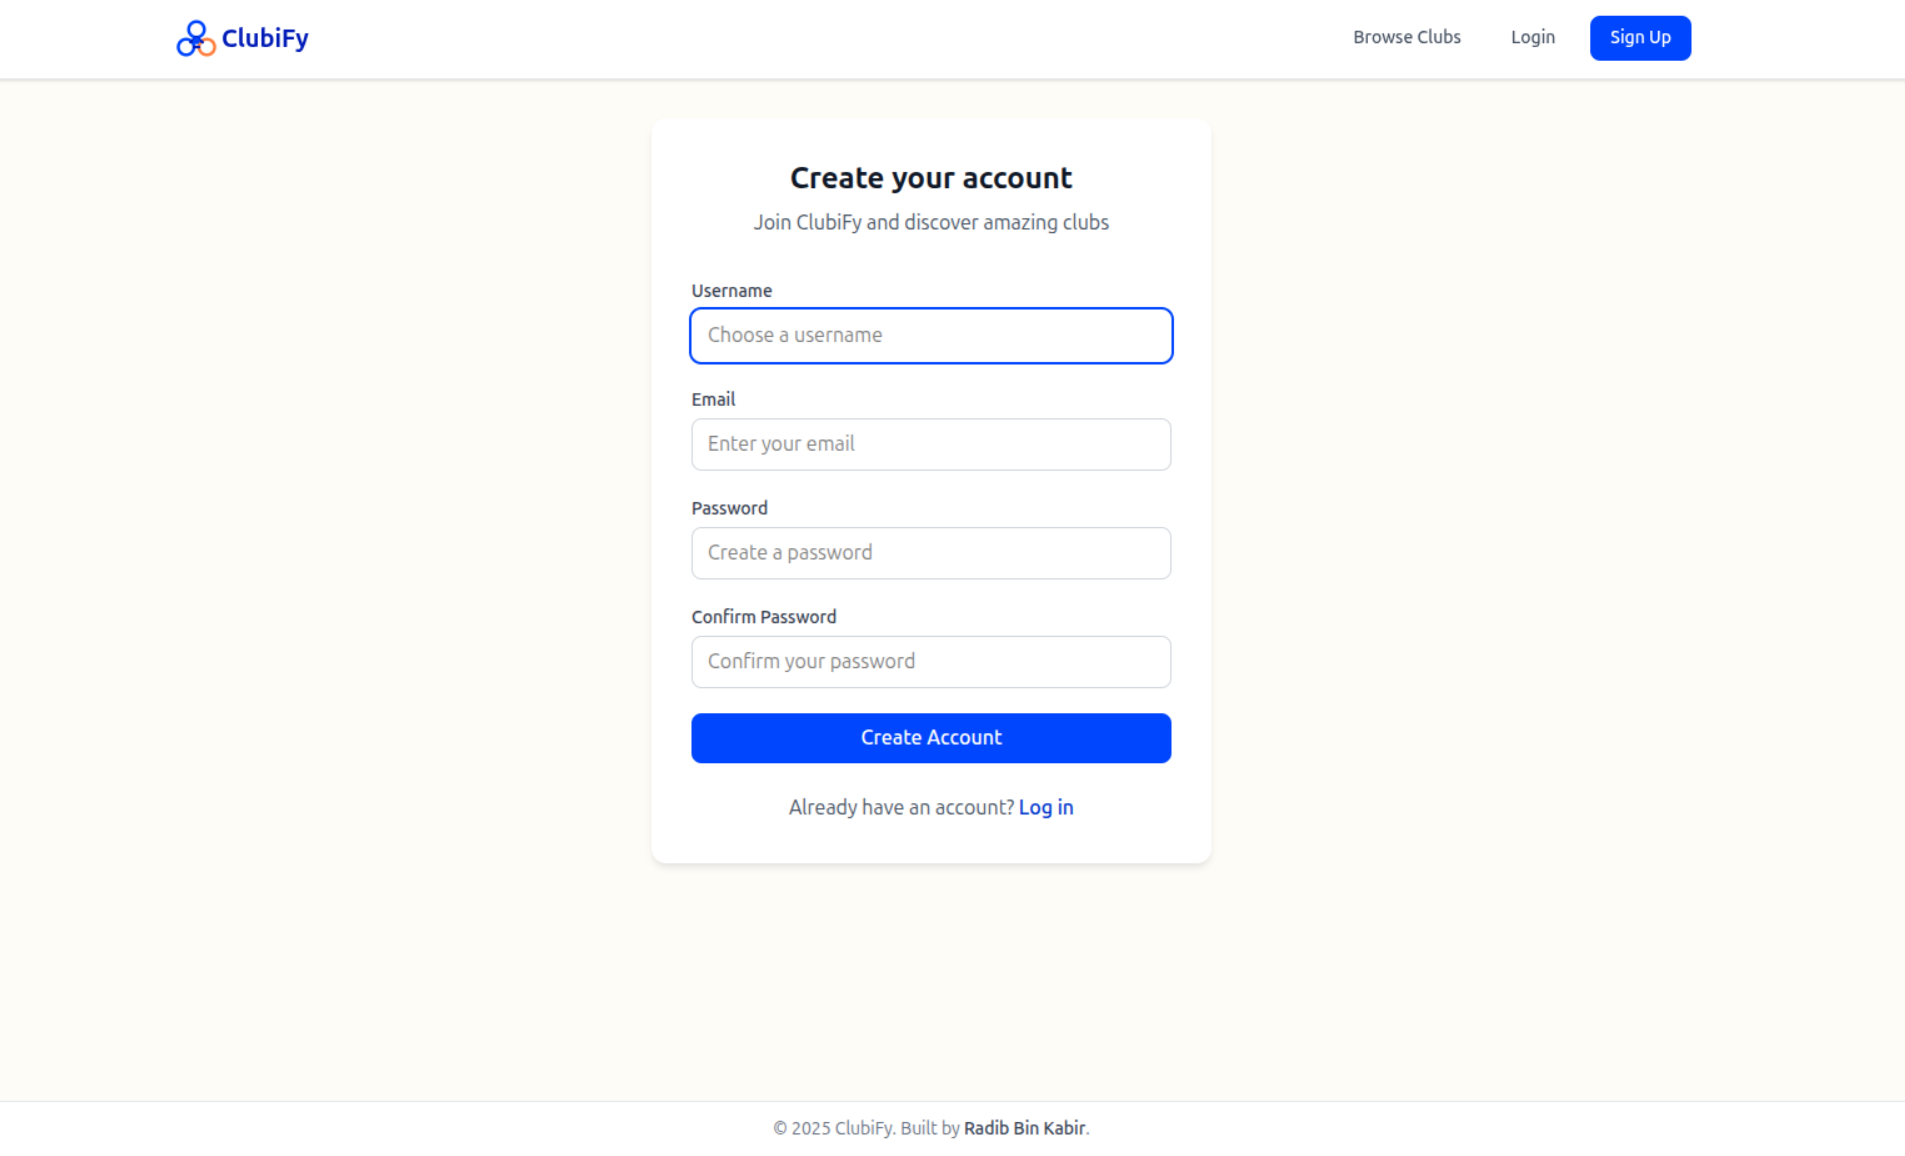
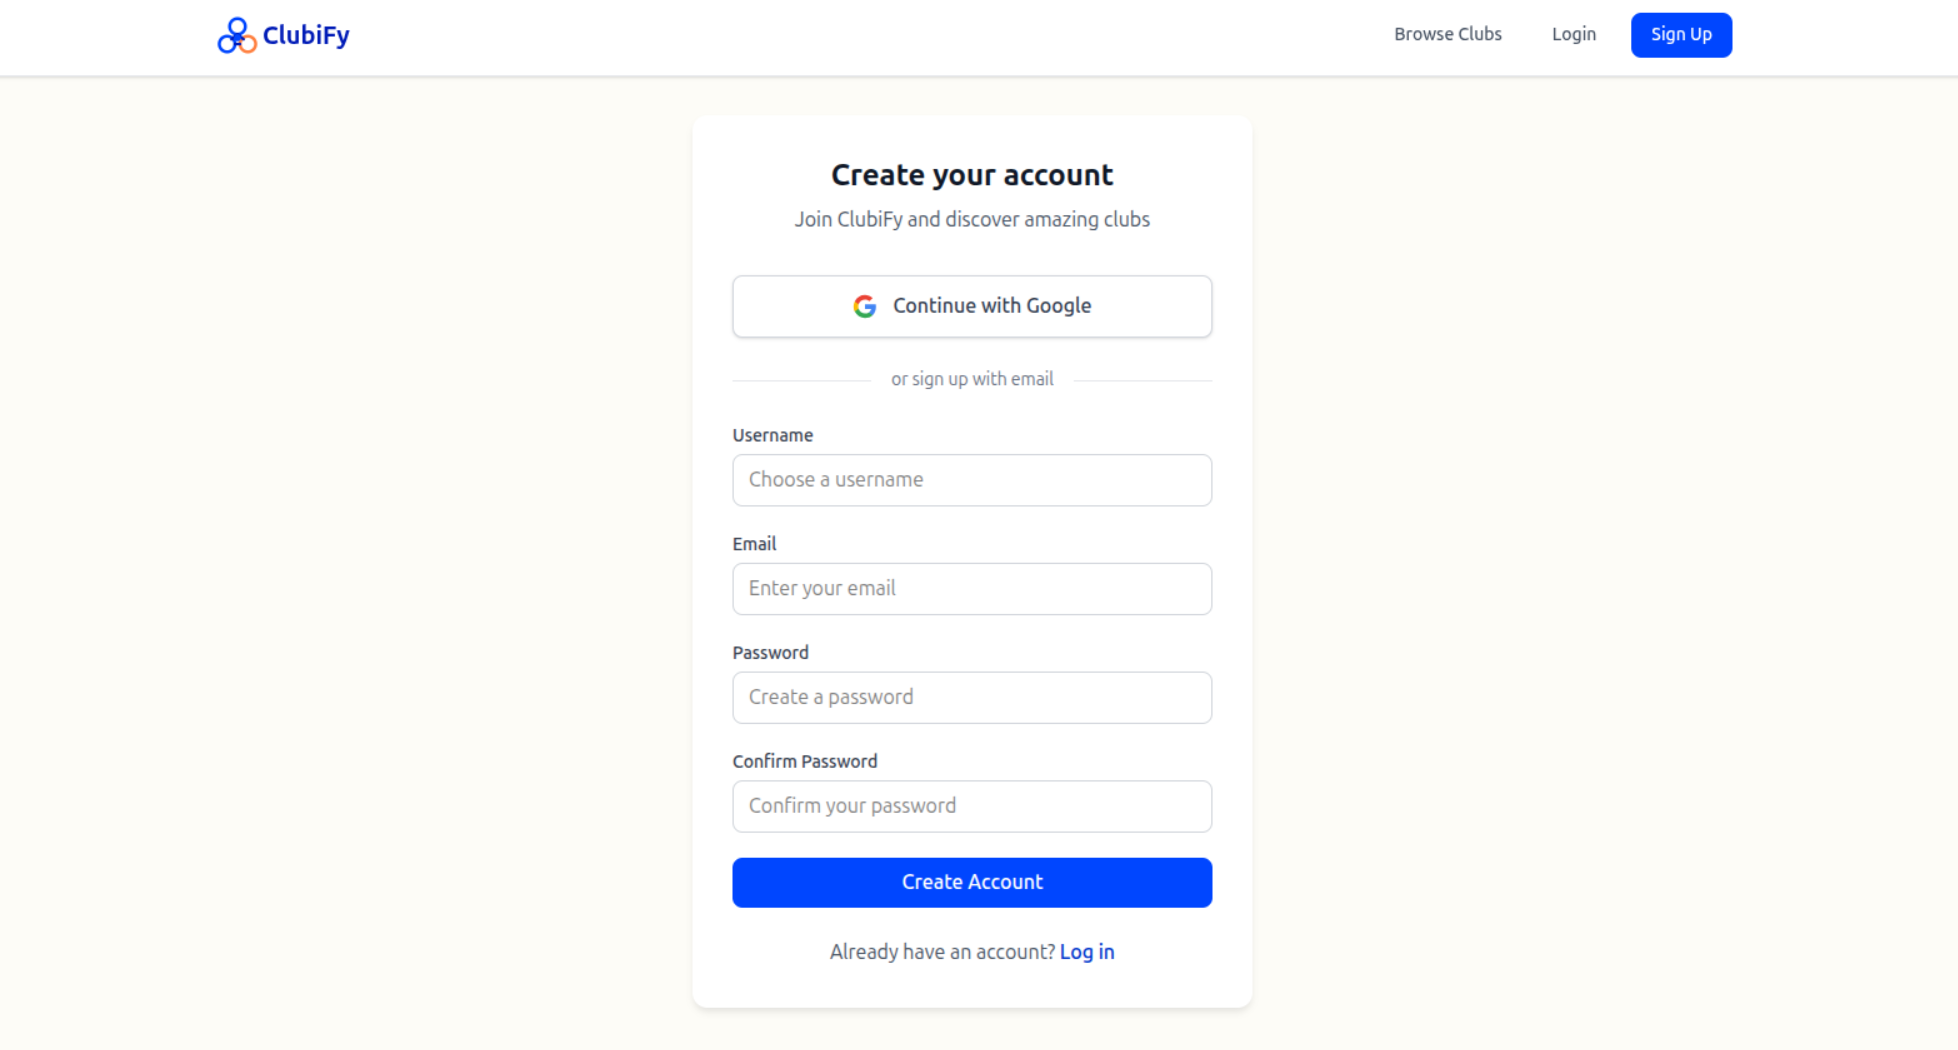
Readme changes

diff --git a/README.md b/README.md
@@ -18,7 +18,7 @@
 
 
 ## Highlights
-- Authentication (signup, login, logout)
+- Authentication with Google OAuth (signup, login, logout)
 - Create and browse clubs
 - Role-based memberships (Admin, Moderator, Member)
 - Membership requests with approve / reject workflow
@@ -158,6 +158,8 @@ DB_USER=postgres
 DB_PASSWORD=your-password
 DB_HOST=localhost
 DB_PORT=5432
+GOOGLE_CLIENT_ID=your-google-client-id
+GOOGLE_CLIENT_SECRET=your-google-client-secret
 ```
 
 #### 5. Create PostgreSQL database
